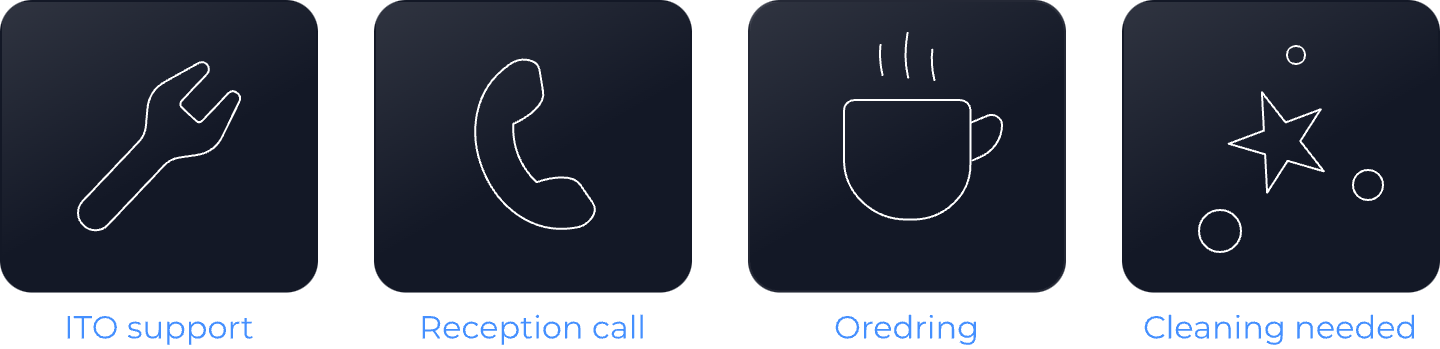
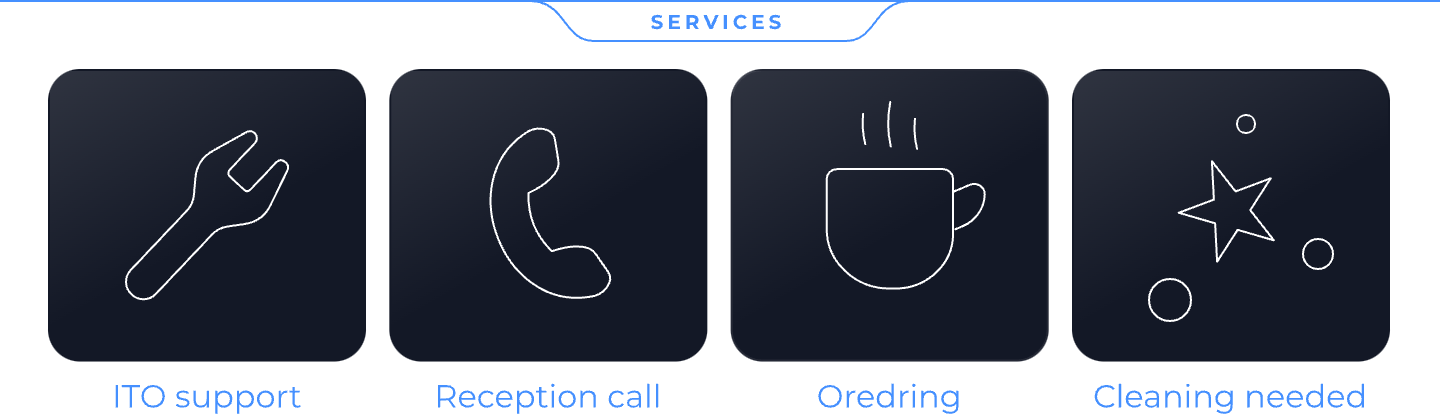
Revert section separator changes, keep original PNG separators
Restored lights/blinds/tricsy/services/environment/weather to original state.
Card separators (ACTUAL/NEXT MEETING, RECORDING) remain white centered.

diff --git a/index.html b/index.html
@@ -296,7 +296,7 @@ body{
 .free-fornext{display:flex;align-items:baseline;gap:12px;}
 .free-fornext-label{font-size:21px;font-weight:700;color:#fff;}
 .free-fornext-time{font-size:38px;font-weight:700;color:#fff;}
-.free-line{display:none;}
+.free-line{height:1px;background:rgba(255,255,255,0.25);margin:8px 30px 0;}
 .free-book-row{
   display:flex;align-items:center;justify-content:space-between;
   padding:10px 30px;
@@ -506,22 +506,6 @@ body{
   letter-spacing:0.5px;
 }
 
-/* ── Section slash (generic, for image sections) ── */
-.section-slash{
-  display:flex;align-items:center;
-  height:20px;padding:0 24px;gap:6px;
-}
-.section-slash::before,.section-slash::after{
-  content:'';flex:1;height:1px;background:#4590ff;
-}
-.section-slash .bracket{font-size:14px;color:#4590ff;font-weight:300;}
-.section-slash span.txt{
-  font-size:12px;font-weight:600;color:#4590ff;letter-spacing:2px;
-  text-transform:uppercase;flex-shrink:0;
-}
-.section-img-clip{
-}
-
 /* ── Footer ── */
 .panel-footer{padding:16px 24px;text-align:center;}
 .panel-footer img{height:20px;opacity:0.4;}
@@ -630,8 +614,7 @@ body{
   <!-- ═══ LIGHTS ═══ -->
   <div class="section draggable" draggable="true" data-name="lights">
     <div class="drag-handle"></div>
-    <div class="section-slash"><span class="bracket">(</span><span class="txt">LIGHTS</span><span class="bracket">)</span></div>
-    <img class="section-img-clip" src="occupy-assets/W56aF.png" alt="">
+    <img src="occupy-assets/W56aF.png" alt="">
     <div class="tile-flash" data-group="lights" data-idx="0" style="left:24px;top:32px;width:126px;height:117px;"></div>
     <div class="tile-flash" data-group="lights" data-idx="1" style="left:160px;top:32px;width:126px;height:117px;"></div>
     <div class="tile-flash" data-group="lights" data-idx="2" style="left:297px;top:32px;width:126px;height:117px;"></div>
@@ -642,8 +625,7 @@ body{
   <!-- ═══ BLINDS ═══ -->
   <div class="section draggable" draggable="true" data-name="blinds">
     <div class="drag-handle"></div>
-    <div class="section-slash"><span class="bracket">(</span><span class="txt">BLINDS</span><span class="bracket">)</span></div>
-    <img class="section-img-clip" src="occupy-assets/UCkPe.png" alt="">
+    <img src="occupy-assets/UCkPe.png" alt="">
     <div class="tile-flash" data-group="blinds" data-idx="0" style="left:24px;top:36px;width:159px;height:146px;"></div>
     <div class="tile-flash" data-group="blinds" data-idx="1" style="left:195px;top:36px;width:159px;height:146px;"></div>
     <div class="tile-flash" data-group="blinds" data-idx="2" style="left:366px;top:36px;width:159px;height:146px;"></div>
@@ -653,8 +635,7 @@ body{
   <!-- ═══ HEY TRICSY ═══ -->
   <div class="section draggable" draggable="true" data-name="tricsy">
     <div class="drag-handle"></div>
-    <div class="section-slash"><span class="bracket">(</span><span class="txt">HEY TRICSY</span><span class="bracket">)</span></div>
-    <img class="section-img-clip" src="occupy-assets/yZm7M.png" alt="">
+    <img src="occupy-assets/yZm7M.png" alt="">
     <div class="hotspot" data-action="tricsy" style="left:48px;top:75px;width:56px;height:56px;border-radius:28px;"></div>
   </div>
 
@@ -686,8 +667,7 @@ body{
   <!-- ═══ SERVICES ═══ -->
   <div class="section draggable" draggable="true" data-name="services">
     <div class="drag-handle"></div>
-    <div class="section-slash"><span class="bracket">(</span><span class="txt">SERVICES</span><span class="bracket">)</span></div>
-    <img class="section-img-clip" src="occupy-assets/PIqES.png" alt="">
+    <img src="occupy-assets/PIqES.png" alt="">
     <div class="tile-flash" data-group="services" data-idx="0" style="left:24px;top:35px;width:159px;height:146px;"></div>
     <div class="tile-flash" data-group="services" data-idx="1" style="left:195px;top:35px;width:159px;height:146px;"></div>
     <div class="tile-flash" data-group="services" data-idx="2" style="left:365px;top:35px;width:159px;height:146px;"></div>
@@ -697,15 +677,13 @@ body{
   <!-- ═══ ENVIRONMENT ═══ -->
   <div class="section draggable" draggable="true" data-name="environment">
     <div class="drag-handle"></div>
-    <div class="section-slash"><span class="bracket">(</span><span class="txt">ENVIRONMENT</span><span class="bracket">)</span></div>
-    <img class="section-img-clip" src="occupy-assets/r9Zk9.png" alt="">
+    <img src="occupy-assets/r9Zk9.png" alt="">
   </div>
 
   <!-- ═══ WEATHER ═══ -->
   <div class="section draggable" draggable="true" data-name="weather">
     <div class="drag-handle"></div>
-    <div class="section-slash"><span class="bracket">(</span><span class="txt">WEATHER</span><span class="bracket">)</span></div>
-    <img class="section-img-clip" src="occupy-assets/ETRs6.png" alt="">
+    <img src="occupy-assets/ETRs6.png" alt="">
   </div>
 
   <!-- Footer -->
